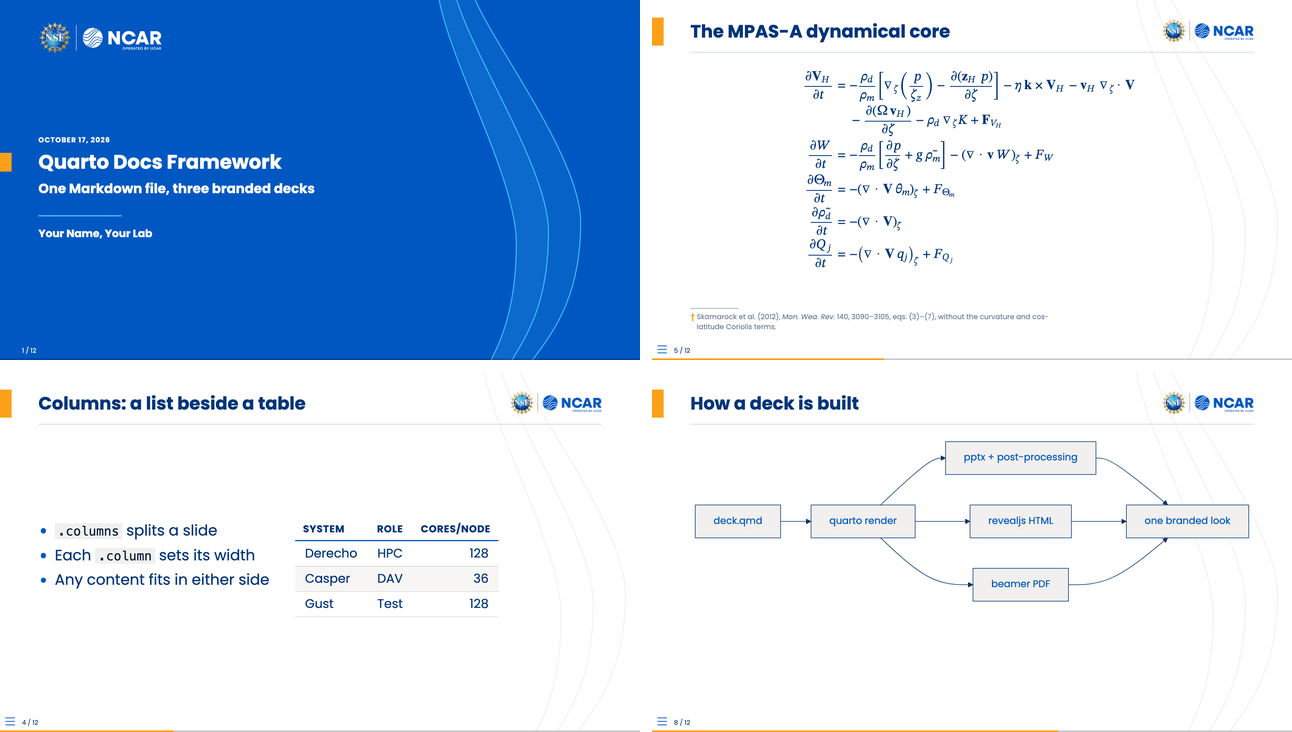
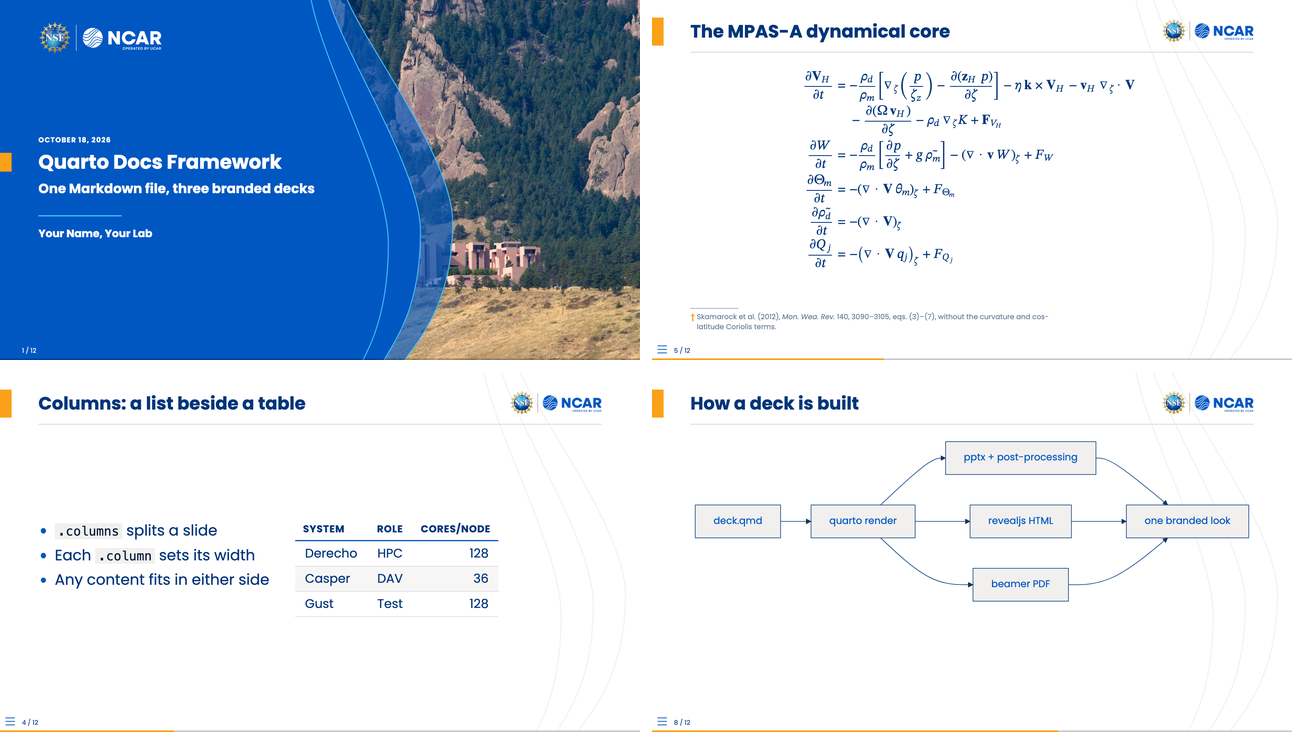
Quickstart: a cover photo (the Mesa Lab); screenshots and gallery reshot
The quickstart's title slide demos titlegraphic: with the NCAR Mesa Lab photo (from the NCAR
beamer template's example imagery, as the engine's starter uses), so the ncar cover shows the
photo in its wave band. The README images are reshot: the cover, the hero and overview, the
PDF pages, the code slide (stale since code took the body's size), and the gallery, whose nsi
row was shot before the content-title change (centred, no tab or hairline, the larger mark).
A deck's titlegraphic wins over a livery's default, so the gallery's nasa and nsi covers show
the Mesa Lab too.

Claude-Session: https://claude.ai/code/session_01QxTZPtUJESWqMyXE15JCRv

Changed region(s): [[0.2477, 0.0, 0.4954, 0.5109], [0.0619, 0.1803, 0.0929, 0.2104]]

diff --git a/README.md b/README.md
@@ -68,7 +68,7 @@ livery:
 
 | Slide | The Markdown behind it |
 |---|---|
-| [Title](docs/quickstart/screenshots/01-title.png) | the front matter: `title`, `subtitle`, `author`, `date` |
+| [Title](docs/quickstart/screenshots/01-title.png) | the front matter: `title`, `subtitle`, `author`, `date`, and `titlegraphic:` for the cover photo |
 | [Section divider](docs/quickstart/screenshots/02-divider.png) | `# Write Markdown`, then a paragraph: the subtitle |
 | [Bullets and a footnote](docs/quickstart/screenshots/03-text.png) | a list, then a paragraph starting with `†`; `{.vcenter scale="1.2"}` on the heading |
 | [Columns](docs/quickstart/screenshots/04-columns.png) | `:::: {.columns}` with a list in one `.column` and a table in the other |
@@ -803,6 +803,8 @@ license:
   public domain and its use is restricted by the
   [NASA brand guidelines](https://www.nasa.gov/nasa-brand-center/brand-guidelines/). The
   `nasa` liveries' photographs are NASA's (images.nasa.gov); see their `reference/notes.md`.
+- **The Mesa Lab photograph** (`docs/quickstart/images/mesa_lab.jpg`, the quickstart's cover) is
+  NCAR's, from the NCAR beamer template's example imagery.
 - **The Poppins font** (`docs/common/liveries/ncar/fonts/` and the vendored theme)
   is licensed under the [SIL Open Font License](https://openfontlicense.org); **TeX Gyre
   Heros** (`docs/common/liveries/cu/fonts/`) under the GUST Font License; **Inter, Public
